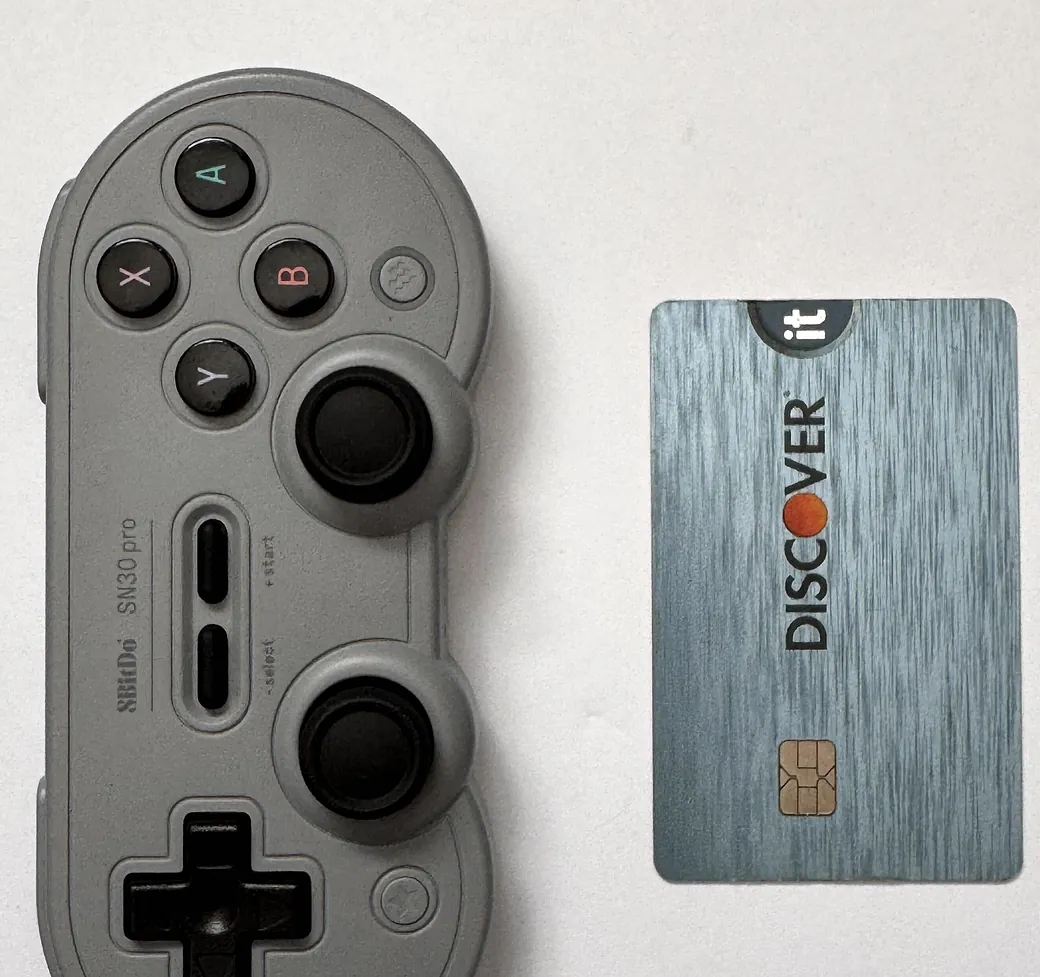
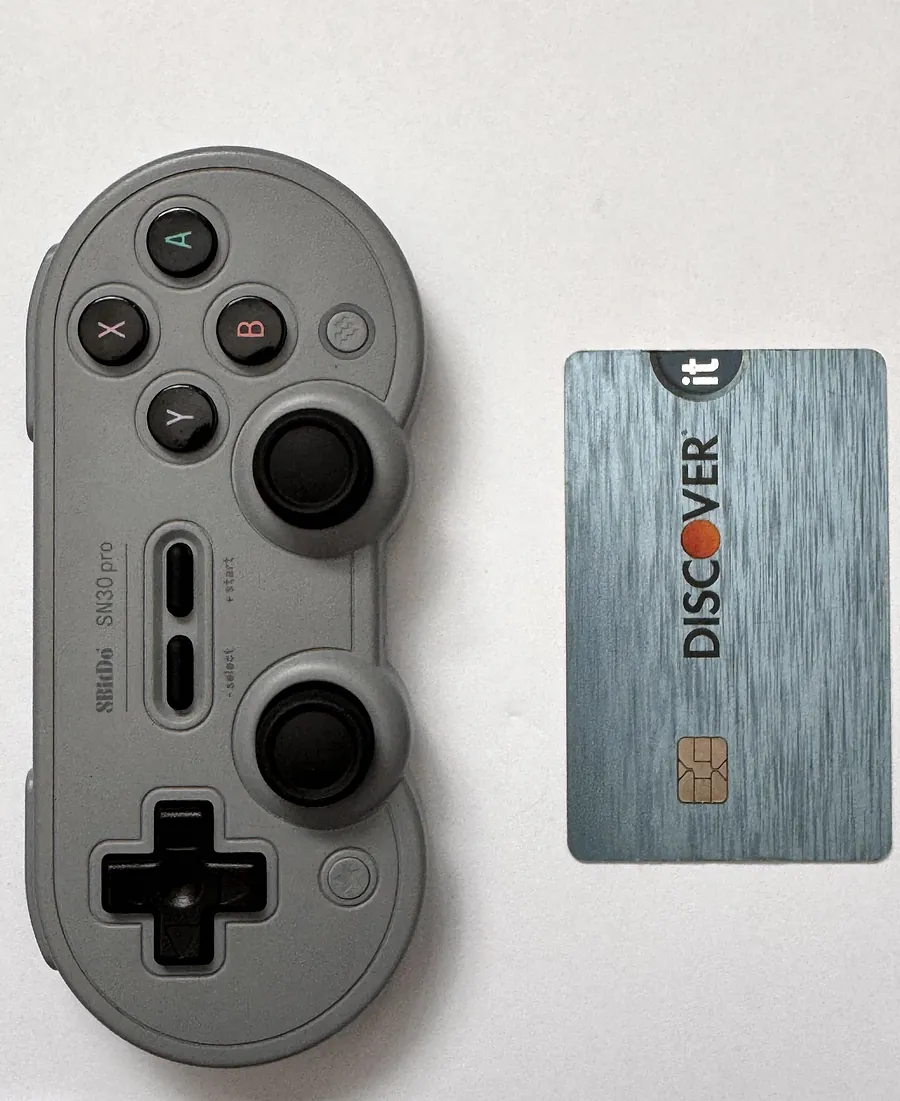
feat(scan): refine capture example, auto-close tab, desktop cleanup
- Re-crop the example photo so the full tool is in frame (the previous
  crop clipped the controller base).
- Redesign the capture overlay: polished chips, colored leader lines to
  anchor dots, and a clearer straight-down cue.
- Auto-close the phone tab 5s after a successful upload (best-effort;
  window.close() only works for script-opened tabs, so the copy keeps a
  manual-close fallback).
- Drop the example image from the desktop dialog and cutout empty-state;
  it's only useful on the phone. The on-device privacy note stays.

diff --git a/src/features/scan-capture/components/ScanPage/ScanPage.tsx b/src/features/scan-capture/components/ScanPage/ScanPage.tsx
@@ -114,6 +114,14 @@ export function ScanPage({ token }: ScanPageProps) {
     return () => URL.revokeObjectURL(photoUrl);
   }, [photoUrl]);
 
+  // window.close() only succeeds for script-opened tabs, so the "sent" copy
+  // keeps a manual-close fallback.
+  useEffect(() => {
+    if (status.kind !== 'sent') return;
+    const timer = setTimeout(() => window.close(), 5000);
+    return () => clearTimeout(timer);
+  }, [status.kind]);
+
   const handleFile = useCallback(async (file: File) => {
     setStatus({ kind: 'processing' });
     let canvas: HTMLCanvasElement;
@@ -563,16 +571,12 @@ function GuideTip({ text }: { readonly text: string }) {
   );
 }
 
-/** Asset lives in public/ so the lightweight scan bundle fetches it lazily. */
+// In public/ so the lightweight scan bundle isn't bloated by the asset.
 const SCAN_EXAMPLE_SRC = '/images/scan/scan-example.webp';
 
-/**
- * Real top-down example with anchored callouts. The photo is a baked asset; the
- * pills and leader lines are HTML+SVG so they localise and stay crisp at any DPI.
- */
 function ScanExamplePhoto({ t }: { readonly t: ReturnType<typeof useTranslation> }) {
   return (
-    <div className="relative w-full overflow-hidden rounded-xl border border-stroke bg-surface-elevated shadow-sm">
+    <div className="relative w-full overflow-hidden rounded-2xl border border-stroke bg-surface-elevated shadow-sm">
       <img
         src={SCAN_EXAMPLE_SRC}
         alt={t('scan.capture.exampleAlt')}
@@ -581,7 +585,8 @@ function ScanExamplePhoto({ t }: { readonly t: ReturnType<typeof useTranslation>
         decoding="async"
       />
 
-      {/* Leader lines to the tool and card, plus the straight-down camera axis. */}
+      <div className="pointer-events-none absolute inset-x-0 top-0 h-1/4 bg-gradient-to-b from-surface/55 to-transparent" />
+
       <svg
         className="pointer-events-none absolute inset-0 h-full w-full"
         viewBox="0 0 100 100"
@@ -590,112 +595,107 @@ function ScanExamplePhoto({ t }: { readonly t: ReturnType<typeof useTranslation>
         aria-hidden="true"
       >
         <line
-          x1="18"
-          y1="17"
-          x2="24"
+          x1="22"
+          y1="14"
+          x2="28"
           y2="23"
           className="stroke-accent"
-          strokeWidth={1.2}
+          strokeWidth={1.5}
+          strokeLinecap="round"
           vectorEffect="non-scaling-stroke"
         />
         <line
-          x1="82"
-          y1="17"
-          x2="81"
+          x1="80"
+          y1="14"
+          x2="80"
           y2="30"
           className="stroke-success"
-          strokeWidth={1.2}
+          strokeWidth={1.5}
+          strokeLinecap="round"
           vectorEffect="non-scaling-stroke"
         />
-        <g className="stroke-content-tertiary" strokeWidth={1.2} vectorEffect="non-scaling-stroke">
-          <line x1="56" y1="18" x2="56" y2="43" strokeDasharray="3 3" />
-          <line x1="52.5" y1="39" x2="56" y2="43" />
-          <line x1="59.5" y1="39" x2="56" y2="43" />
-        </g>
       </svg>
 
-      <AnchorDot leftPct={24} topPct={23} className="bg-accent" />
-      <AnchorDot leftPct={81} topPct={30} className="bg-success" />
+      <AnchorDot leftPct={28} topPct={23} tone="accent" />
+      <AnchorDot leftPct={80} topPct={30} tone="success" />
 
-      <CalloutPill leftPct={18} topPct={10} tone="accent" label={t('scan.capture.label.tool')} />
-      <CalloutPill
-        leftPct={56}
-        topPct={10}
-        tone="neutral"
-        downArrow
-        label={t('scan.capture.label.topDown')}
-      />
-      <CalloutPill leftPct={82} topPct={10} tone="success" label={t('scan.capture.label.card')} />
+      <OverlayChip leftPct={50} topPct={3} tone="neutral" label={t('scan.capture.label.topDown')} />
+      <OverlayChip leftPct={22} topPct={8.5} tone="accent" label={t('scan.capture.label.tool')} />
+      <OverlayChip leftPct={80} topPct={8.5} tone="success" label={t('scan.capture.label.card')} />
     </div>
   );
 }
 
+const TONE_DOT: Record<'accent' | 'success', string> = {
+  accent: 'bg-accent',
+  success: 'bg-success',
+};
+
 function AnchorDot({
   leftPct,
   topPct,
-  className,
+  tone,
 }: {
   readonly leftPct: number;
   readonly topPct: number;
-  readonly className: string;
+  readonly tone: 'accent' | 'success';
 }) {
   return (
     <span
       aria-hidden="true"
-      className={`absolute h-2 w-2 -translate-x-1/2 -translate-y-1/2 rounded-full ring-2 ring-surface ${className}`}
+      className={`absolute h-2.5 w-2.5 -translate-x-1/2 -translate-y-1/2 rounded-full shadow ring-2 ring-surface ${TONE_DOT[tone]}`}
       style={{ left: `${leftPct}%`, top: `${topPct}%` }}
     />
   );
 }
 
-function CalloutPill({
+function StraightDownGlyph() {
+  return (
+    <svg
+      width="11"
+      height="11"
+      viewBox="0 0 24 24"
+      fill="none"
+      stroke="currentColor"
+      strokeWidth="2.2"
+      strokeLinecap="round"
+      strokeLinejoin="round"
+      aria-hidden="true"
+      className="text-content-tertiary"
+    >
+      <path d="M12 3v11" />
+      <path d="m7 10 5 5 5-5" />
+      <path d="M5 21h14" />
+    </svg>
+  );
+}
+
+function OverlayChip({
   leftPct,
   topPct,
   tone,
   label,
-  downArrow,
 }: {
   readonly leftPct: number;
   readonly topPct: number;
   readonly tone: 'accent' | 'success' | 'neutral';
   readonly label: string;
-  readonly downArrow?: boolean;
 }) {
-  const dotClass: Record<typeof tone, string> = {
-    accent: 'bg-accent',
-    success: 'bg-success',
-    neutral: 'bg-content-tertiary',
-  };
   return (
     <span
-      className="absolute flex -translate-x-1/2 items-center gap-1 whitespace-nowrap rounded-full border border-stroke-subtle bg-surface/90 px-2 py-0.5 text-[10px] font-medium text-content-secondary shadow-sm backdrop-blur-sm"
+      className="absolute flex -translate-x-1/2 items-center gap-1.5 whitespace-nowrap rounded-full bg-surface/95 px-2.5 py-1 text-[11px] font-medium text-content-primary shadow-md ring-1 ring-black/[0.06] backdrop-blur-sm"
       style={{ left: `${leftPct}%`, top: `${topPct}%` }}
     >
-      {downArrow ? (
-        <svg
-          width="9"
-          height="9"
-          viewBox="0 0 24 24"
-          fill="none"
-          stroke="currentColor"
-          strokeWidth="3"
-          strokeLinecap="round"
-          strokeLinejoin="round"
-          aria-hidden="true"
-          className="text-content-tertiary"
-        >
-          <path d="M12 5v14" />
-          <path d="m19 12-7 7-7-7" />
-        </svg>
+      {tone === 'neutral' ? (
+        <StraightDownGlyph />
       ) : (
-        <span className={`h-1.5 w-1.5 rounded-full ${dotClass[tone]}`} aria-hidden="true" />
+        <span className={`h-2 w-2 rounded-full ${TONE_DOT[tone]}`} aria-hidden="true" />
       )}
       {label}
     </span>
   );
 }
 
-/** Reassures the user the capture is on-device — the photo is never uploaded. */
 function PrivacyNote({ text }: { readonly text: string }) {
   return (
     <p className="flex items-center gap-1.5 text-center text-[11px] text-content-tertiary">

diff --git a/src/features/scan-capture/components/ScanPage/ScanPage.test.tsx b/src/features/scan-capture/components/ScanPage/ScanPage.test.tsx
@@ -1,5 +1,5 @@
 import { describe, it, expect, vi, beforeEach, afterEach } from 'vitest';
-import { render, screen, fireEvent, waitFor } from '@testing-library/react';
+import { render, screen, fireEvent, waitFor, act } from '@testing-library/react';
 import { ok, err } from '@/core/result';
 import { ScanPage } from './ScanPage';
 
@@ -186,6 +186,27 @@ describe('ScanPage', () => {
       expect.objectContaining({ method: 'POST' })
     );
     vi.unstubAllGlobals();
+  });
+
+  it('auto-closes the tab after a successful upload', async () => {
+    vi.useFakeTimers();
+    mockTraceSegmented.mockReturnValue(ok(SCENE_MM));
+    vi.stubGlobal('fetch', vi.fn().mockResolvedValue({ ok: true, status: 200 }));
+    const closeSpy = vi.spyOn(window, 'close').mockImplementation(() => {});
+    try {
+      render(<ScanPage token={TOKEN} />);
+      selectPhoto();
+      await act(() => vi.advanceTimersByTimeAsync(0));
+      fireEvent.click(screen.getByText('scan.use'));
+      await act(() => vi.advanceTimersByTimeAsync(0));
+      expect(screen.getByText('scan.sent.title')).toBeInTheDocument();
+      expect(closeSpy).not.toHaveBeenCalled();
+      await act(() => vi.advanceTimersByTimeAsync(5000));
+      expect(closeSpy).toHaveBeenCalledTimes(1);
+    } finally {
+      vi.useRealTimers();
+      vi.unstubAllGlobals();
+    }
   });
 
   it('shows a no-object error when both ML and classical tracing fail', async () => {

diff --git a/src/features/bin-designer/components/panel/CutoutsSection/scanImport/ScanWithPhoneDialog.tsx b/src/features/bin-designer/components/panel/CutoutsSection/scanImport/ScanWithPhoneDialog.tsx
@@ -35,10 +35,6 @@ type Stage =
 
 const round1 = (n: number): number => Math.round(n * 10) / 10;
 
-/** Shared with the phone capture page (served from public/). */
-const SCAN_EXAMPLE_SRC = '/images/scan/scan-example.webp';
-
-/** On-device reassurance: the phone never uploads the photo, only the outline. */
 function PrivacyHint({ text }: { readonly text: string }) {
   return (
     <span className="flex items-center justify-center gap-1.5 text-[11px] text-content-tertiary">
@@ -182,17 +178,7 @@ export function ScanWithPhoneDialog({ open, onClose }: ScanWithPhoneDialogProps)
                   <Spinner size="sm" />
                   {t('binDesigner.cutouts.scanImport.waiting')}
                 </p>
-                <figure className="mt-1 flex w-full flex-col items-center gap-2">
-                  <img
-                    src={SCAN_EXAMPLE_SRC}
-                    alt={t('scan.capture.exampleAlt')}
-                    className="w-full max-w-[200px] rounded-lg border border-stroke-subtle"
-                    decoding="async"
-                  />
-                  <figcaption>
-                    <PrivacyHint text={t('scan.capture.privacy')} />
-                  </figcaption>
-                </figure>
+                <PrivacyHint text={t('scan.capture.privacy')} />
               </>
             ) : (
               <p className="flex items-center gap-2 py-6 text-sm text-content-secondary">

diff --git a/src/features/bin-designer/components/panel/CutoutsSection/CutoutEmptyState.test.tsx b/src/features/bin-designer/components/panel/CutoutsSection/CutoutEmptyState.test.tsx
@@ -38,12 +38,10 @@ describe('CutoutEmptyState', () => {
     expect(onScanWithPhone).toHaveBeenCalledTimes(1);
   });
 
-  it('shows the framing example and on-device privacy note with the scan CTA', () => {
+  it('shows the on-device privacy note with the scan CTA, without an example image', () => {
     render(<CutoutEmptyState variant="sidebar" onScanWithPhone={vi.fn()} />);
-    expect(screen.getByRole('img')).toHaveAttribute('src', '/images/scan/scan-example.webp');
-    // This suite renders real i18n (no mock), so the privacy note is matched by
-    // its English copy — same convention as the CTA/shortcut assertions above.
-    // The phone/dialog suites mock i18n and assert the 'scan.capture.privacy' key.
+    expect(screen.queryByRole('img')).toBeNull();
+    // Real i18n here (no mock) → assert English copy, like the assertions above.
     expect(screen.getByText(/stays on your phone/i)).toBeInTheDocument();
   });
 });

diff --git a/src/features/bin-designer/components/panel/CutoutsSection/scanImport/ScanWithPhoneDialog.test.tsx b/src/features/bin-designer/components/panel/CutoutsSection/scanImport/ScanWithPhoneDialog.test.tsx
@@ -53,11 +53,10 @@ describe('ScanWithPhoneDialog', () => {
     expect(screen.getByText('binDesigner.cutouts.scanImport.upload')).toBeInTheDocument();
   });
 
-  it('shows the framing example and on-device privacy note while awaiting a QR scan', () => {
+  it('shows the on-device privacy note while awaiting a QR scan', () => {
     session.current = { phase: 'waiting', url: 'https://example.com/scan/abc' };
     render(<ScanWithPhoneDialog open onClose={vi.fn()} />);
-    const example = screen.getByAltText('scan.capture.exampleAlt');
-    expect(example).toHaveAttribute('src', '/images/scan/scan-example.webp');
+    expect(screen.queryByAltText('scan.capture.exampleAlt')).toBeNull();
     expect(screen.getByText('scan.capture.privacy')).toBeInTheDocument();
   });
 

diff --git a/src/features/bin-designer/components/panel/CutoutsSection/CutoutEmptyState.tsx b/src/features/bin-designer/components/panel/CutoutsSection/CutoutEmptyState.tsx
@@ -74,12 +74,6 @@ export function CutoutEmptyState({ variant, onScanWithPhone }: CutoutEmptyStateP
 
         {onScanWithPhone && (
           <div className="pointer-events-auto mt-4 w-full border-t border-stroke-subtle pt-3">
-            <img
-              src="/images/scan/scan-example.webp"
-              alt={t('scan.capture.exampleAlt')}
-              className="mx-auto mb-2.5 w-full max-w-[150px] rounded-lg border border-stroke-subtle"
-              decoding="async"
-            />
             <Button type="button" variant="secondary" size="sm" fullWidth onClick={onScanWithPhone}>
               <span className="flex items-center justify-center gap-2">
                 <svg
